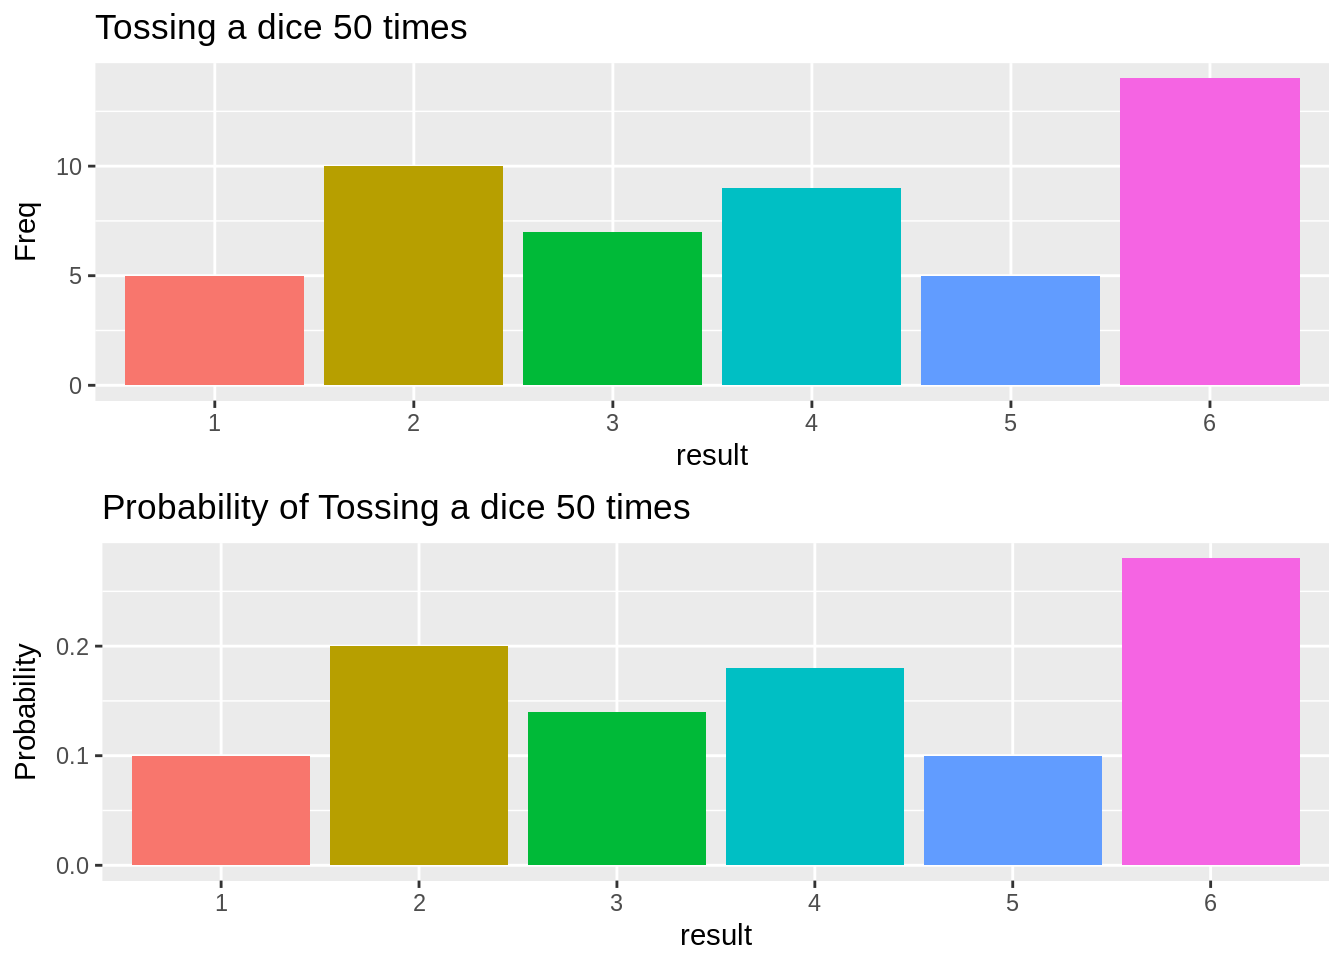
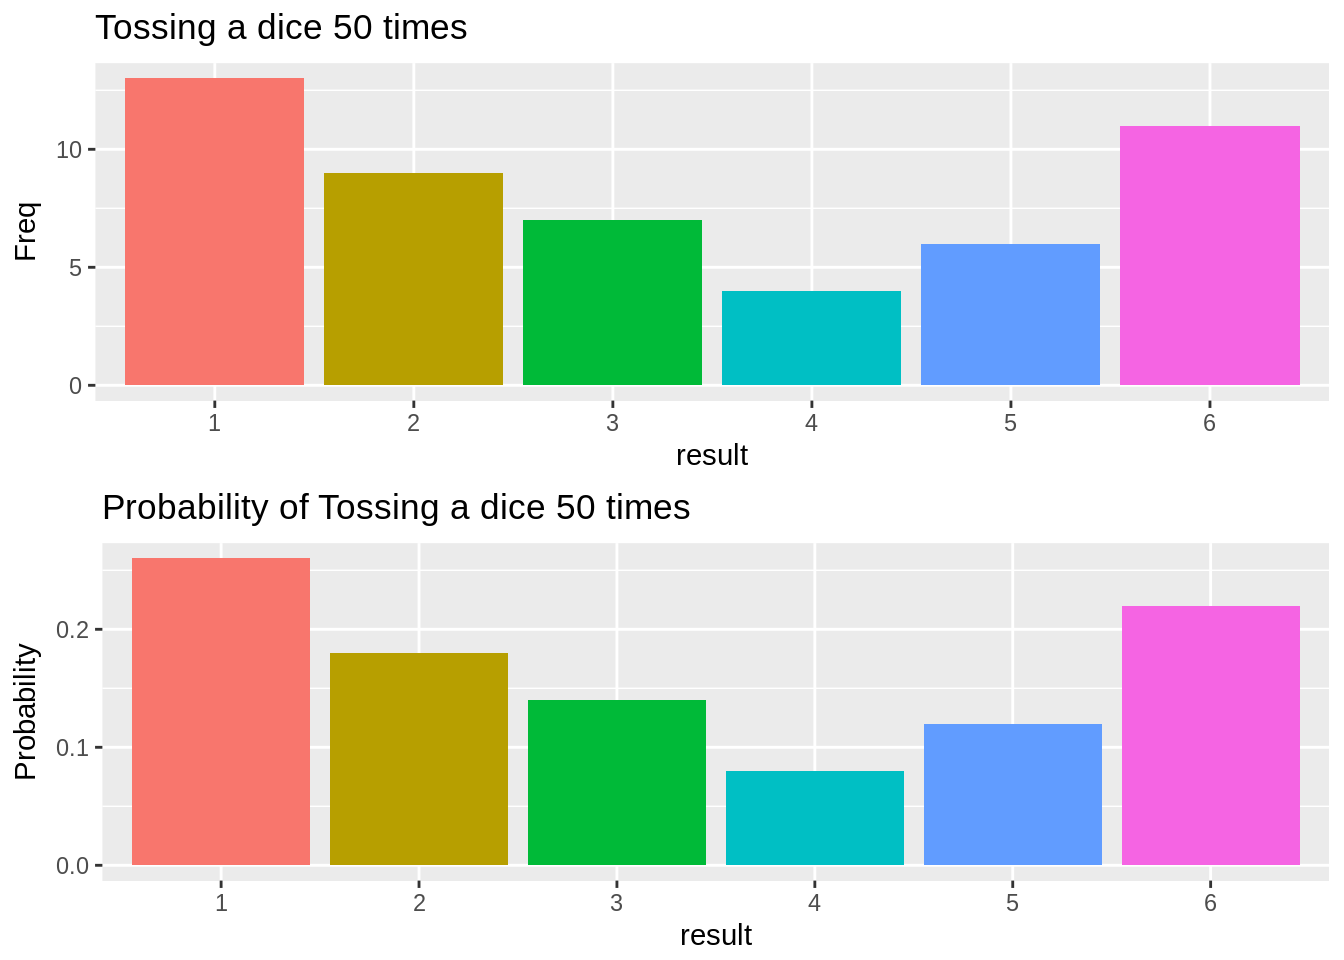
simprob correction

diff --git a/page/simprob/index.html b/page/simprob/index.html
@@ -225,27 +225,27 @@ if (!doNotTrack) {
 <pre class="r"><code>result &lt;- sample(coin,10, replace = TRUE)</code></pre>
 <p>Lets see the result</p>
 <pre class="r"><code>result</code></pre>
-<pre><code>##  [1] &quot;H&quot; &quot;T&quot; &quot;T&quot; &quot;T&quot; &quot;T&quot; &quot;H&quot; &quot;T&quot; &quot;T&quot; &quot;H&quot; &quot;H&quot;</code></pre>
+<pre><code>##  [1] &quot;T&quot; &quot;T&quot; &quot;H&quot; &quot;H&quot; &quot;T&quot; &quot;T&quot; &quot;T&quot; &quot;H&quot; &quot;H&quot; &quot;H&quot;</code></pre>
 <p>We can show as a table</p>
 <pre class="r"><code>table(result)</code></pre>
 <pre><code>## result
 ## H T 
-## 4 6</code></pre>
+## 5 5</code></pre>
 <p>Lets convert the table to data frame.</p>
 <pre class="r"><code>df_total &lt;- data.frame(table(result))</code></pre>
 <p>Lets see the <code>df_total</code></p>
 <pre class="r"><code>df_total</code></pre>
 <pre><code>##   result Freq
-## 1      H    4
-## 2      T    6</code></pre>
-<p>with above results we can see HEAD 4 times and TAIL <code>df_total$Freq[df_total$result == &quot;T&quot;]</code> times.</p>
+## 1      H    5
+## 2      T    5</code></pre>
+<p>with above results we can see HEAD 5 times and TAIL 5 times.</p>
 <p>Using <code>prop.table()</code> we can add additional columns to show probability of each “H” &amp; “T”</p>
 <pre class="r"><code>df_prob &lt;- cbind(df_total, prop.table(df_total$Freq))
 names(df_prob) &lt;- c(&quot;result&quot;,&quot;Freq&quot;, &quot;probability&quot;)
 df_prob</code></pre>
 <pre><code>##   result Freq probability
-## 1      H    4         0.4
-## 2      T    6         0.6</code></pre>
+## 1      H    5         0.5
+## 2      T    5         0.5</code></pre>
 <p>To show the results graphically we can generate bar plot using <code>barplot</code> in base R</p>
 <pre class="r"><code>barplot(df_prob$Freq, names.arg = df_total$result, main = &quot;Head &amp; Tail count of Tossing a coin 10 times&quot;)</code></pre>
 <p><img src="/page/simprob_files/figure-html/unnamed-chunk-6-1.png" width="672" /></p>
@@ -290,16 +290,16 @@ plotCoin &lt;- function(df){
 <pre class="r"><code>df50 &lt;- tossCoin(50)
 df50</code></pre>
 <pre><code>##   result Freq
-## 1      H   27
-## 2      T   23</code></pre>
+## 1      H   24
+## 2      T   26</code></pre>
 <pre class="r"><code>plotCoin(df50)</code></pre>
 <p><img src="/page/simprob_files/figure-html/50Coin-1.png" width="672" /></p>
 <p>May be 1000 times</p>
 <pre class="r"><code>df1000 &lt;- tossCoin(1000)
 df1000</code></pre>
 <pre><code>##   result Freq
-## 1      H  478
-## 2      T  522</code></pre>
+## 1      H  510
+## 2      T  490</code></pre>
 <pre class="r"><code>plotCoin(df1000)</code></pre>
 <p><img src="/page/simprob_files/figure-html/1000Coin-1.png" width="672" /></p>
 <blockquote>
@@ -309,8 +309,8 @@ df1000</code></pre>
 <pre class="r"><code>df1million &lt;- tossCoin(1000000)
 df1million</code></pre>
 <pre><code>##   result   Freq
-## 1      H 501170
-## 2      T 498830</code></pre>
+## 1      H 500299
+## 2      T 499701</code></pre>
 <pre class="r"><code>plotCoin(df1million)</code></pre>
 <p><img src="/page/simprob_files/figure-html/millionCoin-1.png" width="672" /> ***</p>
 </div>
@@ -344,47 +344,47 @@ plotDice &lt;- function(df){
 <pre class="r"><code>df50 &lt;- tossDice(50)
 df50</code></pre>
 <pre><code>##   result Freq
-## 1      1    5
-## 2      2   10
+## 1      1   13
+## 2      2    9
 ## 3      3    7
-## 4      4    9
-## 5      5    5
-## 6      6   14</code></pre>
+## 4      4    4
+## 5      5    6
+## 6      6   11</code></pre>
 <pre class="r"><code>plotDice(df50)</code></pre>
 <p><img src="/page/simprob_files/figure-html/50Dice-1.png" width="672" /></p>
 <p>May be 1000 times</p>
 <pre class="r"><code>df1000 &lt;- tossDice(1000)
 df1000</code></pre>
 <pre><code>##   result Freq
-## 1      1  173
-## 2      2  153
-## 3      3  164
-## 4      4  193
-## 5      5  151
-## 6      6  166</code></pre>
+## 1      1  174
+## 2      2  188
+## 3      3  159
+## 4      4  167
+## 5      5  152
+## 6      6  160</code></pre>
 <pre class="r"><code>plotDice(df1000)</code></pre>
 <p><img src="/page/simprob_files/figure-html/1000Dice-1.png" width="672" /></p>
 <p>Dice can be tossed 1 million times</p>
 <pre class="r"><code>df1million &lt;- tossDice(1000000)
 df1million</code></pre>
 <pre><code>##   result   Freq
-## 1      1 165817
-## 2      2 166451
-## 3      3 166607
-## 4      4 166856
-## 5      5 167315
-## 6      6 166954</code></pre>
+## 1      1 166338
+## 2      2 166591
+## 3      3 166153
+## 4      4 167226
+## 5      5 167155
+## 6      6 166537</code></pre>
 <pre class="r"><code>plotDice(df1million)</code></pre>
 <p><img src="/page/simprob_files/figure-html/millionDice-1.png" width="672" /></p>
 <p>as a proportional table</p>
 <pre class="r"><code>cbind(df1million, prop.table(df1million$Freq))</code></pre>
 <pre><code>##   result   Freq prop.table(df1million$Freq)
-## 1      1 165817                    0.165817
-## 2      2 166451                    0.166451
-## 3      3 166607                    0.166607
-## 4      4 166856                    0.166856
-## 5      5 167315                    0.167315
-## 6      6 166954                    0.166954</code></pre>
+## 1      1 166338                    0.166338
+## 2      2 166591                    0.166591
+## 3      3 166153                    0.166153
+## 4      4 167226                    0.167226
+## 5      5 167155                    0.167155
+## 6      6 166537                    0.166537</code></pre>
 <blockquote>
 <p>We can see if the number of times tossing dice increases the probablity of each occurance is approximating to <span class="math inline">\(\frac{1}{6} = 0.1666667\)</span></p>
 </blockquote>

diff --git a/page/index.html b/page/index.html
@@ -229,7 +229,7 @@ if (!doNotTrack) {
   
   
   &nbsp;|&nbsp;
-  <i class="fa fa-clock-o"></i> 5 minutes (963 words)
+  <i class="fa fa-clock-o"></i> 5 minutes (961 words)
   
   
 </span>
